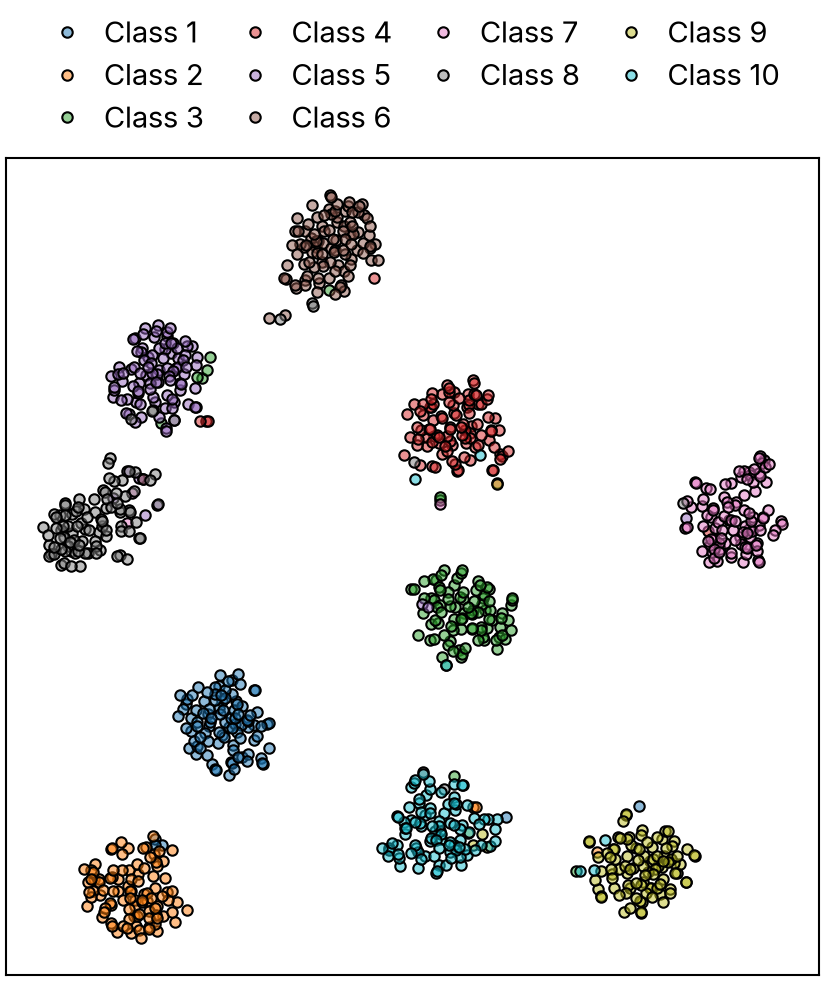
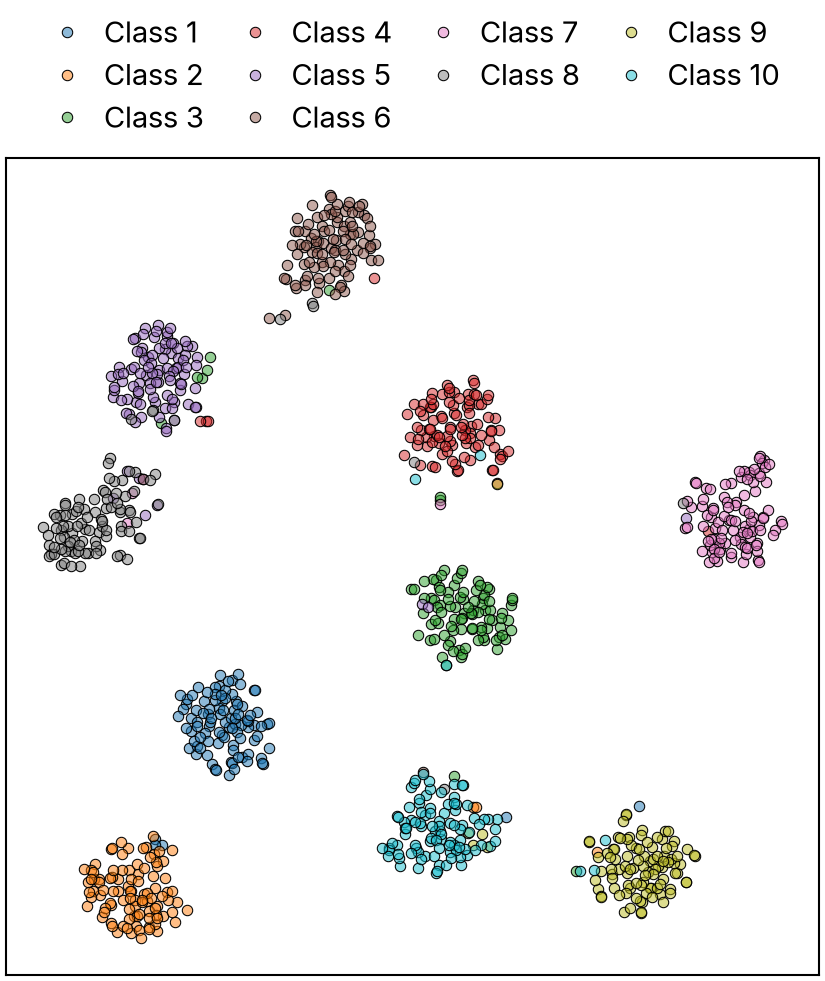
Thinner edge for filled markers (token); full viridis for contour lines

diff --git a/skills/academic-figure/assets/paper.py b/skills/academic-figure/assets/paper.py
@@ -27,6 +27,7 @@ def _size(a, original=False):
 
 dashed_width = 0.75  # the dashed-line token, set by use_design(); pass it to dashed and dotted lines
 highlight_size = 5  # the marker highlight-size token, set by use_design(); for a point of interest
+filled_edge_width = 0.25  # the marker filled-edge-width token, set by use_design(); for filled markers
 
 
 def _resolve(value, tokens):
@@ -49,7 +50,7 @@ def _number(value):
 def use_design(path="DESIGN.md"):
     """Set matplotlib's style from paper.mplstyle and the tokens in the front matter of `path`, a DESIGN.md.
     Returns the colors by name, e.g. colors["series-1"], colors["ours"]."""
-    global dashed_width, highlight_size, _greys
+    global dashed_width, highlight_size, filled_edge_width, _greys
     tokens = yaml.safe_load(Path(path).read_text().split("---")[1])
     tokens = _resolve(tokens, tokens)
     c, t, s, k = tokens["colors"], tokens["typography"], tokens["spacing"], tokens["components"]
@@ -88,6 +89,7 @@ def use_design(path="DESIGN.md"):
     })
     dashed_width = _number(k["dashed-line"]["width"])
     highlight_size = _number(k["marker"]["highlight-size"])
+    filled_edge_width = _number(k["marker"]["filled-edge-width"])
     return c
 
 

diff --git a/examples/use-cases/scripts/loss-landscape.py b/examples/use-cases/scripts/loss-landscape.py
@@ -7,7 +7,7 @@ import warnings
 import matplotlib.pyplot as plt
 import numpy as np
 from matplotlib import rcParams
-from matplotlib.colors import ListedColormap, Normalize
+from matplotlib.colors import Normalize
 
 sys.path.insert(0, "../../../skills/academic-figure/assets")
 import paper  # registers the bundled Inter font
@@ -19,7 +19,7 @@ with open("../data/loss-landscape.json") as f:
     data = json.load(f)
 levels = data["levels"]
 
-cmap = ListedColormap(plt.get_cmap("viridis")(np.linspace(0, 0.85, 256)))
+cmap = plt.get_cmap("viridis")
 norm = Normalize(min(levels), max(levels))
 
 fig, ax = plt.subplots(figsize=(2.75, 2))

diff --git a/examples/use-cases/scripts/t-sne.py b/examples/use-cases/scripts/t-sne.py
@@ -17,7 +17,7 @@ data = json.load(open("../data/t-sne.json"))
 fig, ax = plt.subplots(figsize=(2.75, 2.75))
 for i, color in enumerate(plt.get_cmap("tab10").colors, start=1):
     points = data[f"class_{i}"]
-    ax.plot(points["x"], points["y"], "o", markeredgecolor=colors["ink"], markerfacecolor=(*to_rgb(color), 0.5),
+    ax.plot(points["x"], points["y"], "o", markeredgecolor=colors["ink"], markeredgewidth=paper.filled_edge_width, markerfacecolor=(*to_rgb(color), 0.5),
             linestyle="none", label=f"Class {i}")
 ax.set_xticks([])
 ax.set_yticks([])

diff --git a/skills/academic-figure/scatter-plot.md b/skills/academic-figure/scatter-plot.md
@@ -13,7 +13,7 @@ Two quantities per item plotted against each other: accuracy against parameters,
 - **Trend line** (the takeaway is a correlation): a data line in `darken(color)` over the points; the coefficient (Pearson r or Spearman ρ, with n) in the caption.
 - **Model family** (sizes of one model, B0–B7): its points joined in size order with a solid data line in the family's color, `ax.plot(x, y, "o-", color=colors["ours"])` for ours.
 - **Pareto front**: the models on the front joined in x order with a dashed `neutral` line under the markers, `ax.plot(x, y, linestyle="--", linewidth=paper.dashed_width, color=colors["neutral"], zorder=1)`; several fronts take the grey line styles in order (DESIGN.md Colors). Dominated models stay as markers.
-- **Embedding** (t-SNE, UMAP): each point as the design's marker with a black edge and a translucent fill in its class color, `ax.plot(x, y, "o", markeredgecolor=colors["ink"], markerfacecolor=(*to_rgb(color), 0.5), linestyle="none", label=name)`; one color per class (DESIGN.md Colors) with a legend; no ticks, tick labels, gridlines or axis labels (`ax.set_xticks([])`, `ax.set_yticks([])`, `ax.grid(False)`): the axes of an embedding mean nothing.
+- **Embedding** (t-SNE, UMAP): each point as the design's marker with a black edge and a translucent fill in its class color, `ax.plot(x, y, "o", markeredgecolor=colors["ink"], markeredgewidth=paper.filled_edge_width, markerfacecolor=(*to_rgb(color), 0.5), linestyle="none", label=name)`; one color per class (DESIGN.md Colors) with a legend; no ticks, tick labels, gridlines or axis labels (`ax.set_xticks([])`, `ax.set_yticks([])`, `ax.grid(False)`): the axes of an embedding mean nothing.
 
 ## Labels
 

diff --git a/skills/academic-figure/assets/DESIGN.md b/skills/academic-figure/assets/DESIGN.md
@@ -57,6 +57,7 @@ components:
     size: 2.5pt
     edge-width: 0.5pt
     highlight-size: 5pt
+    filled-edge-width: 0.25pt
   outline:
     width: 0.75pt
   median:
@@ -229,6 +230,7 @@ The marks every chart type is built from, sized by the `components` tokens. Matp
 | Data lines | `line` | 1 pt, solid | set by the style |
 | Dashed and dotted lines (reference lines, value marks, fits, fronts, series told apart by line style) | `dashed-line` | 0.75 pt | `linewidth=paper.dashed_width` with every `linestyle` other than `"-"` |
 | Markers | `marker` | hollow: white fill, a 0.5 pt edge in the series color, 2.5 pt | `rcParams["lines.markersize"]` |
+| Filled markers (embedding points) | `marker.filled-edge-width` | a black edge, 0.25 pt, around a translucent fill | `markeredgewidth=paper.filled_edge_width` |
 | Points of interest (a minimum, the trained solution) | `marker.highlight-size` | a filled star, 5 pt | `markersize=paper.highlight_size` |
 | Outlines and edges (boxes, whiskers, error bars, outlined cells) | `outline` | 0.75 pt, black | `rcParams["patch.linewidth"]` |
 | Seams between fills (stacked segments, wedges, area bands) | `grid` | white, 0.5 pt | `edgecolor="white", linewidth=rcParams["grid.linewidth"]` |

diff --git a/skills/academic-figure/contour-plot.md b/skills/academic-figure/contour-plot.md
@@ -11,7 +11,7 @@ A function of two continuous variables: a loss landscape, a decision boundary, a
 
 ## Variants
 
-- **Contour lines only** (as many papers draw them): `lines = ax.contour(X, Y, Z, levels=levels, cmap=cmap)`, colored by level from the design's colormap without its lightest end, so no line vanishes on white, `cmap = ListedColormap(plt.get_cmap("viridis")(np.linspace(0, 0.85, 256)))`; a colorbar for the line colors, `fig.colorbar(plt.cm.ScalarMappable(norm=Normalize(lo, hi), cmap=cmap), ax=ax, label=...)`.
+- **Contour lines only** (as many papers draw them): `lines = ax.contour(X, Y, Z, levels=levels, cmap=cmap)`, colored by level from the design's whole colormap, `cmap = plt.get_cmap("viridis")`, the same scale as everywhere else; a colorbar for the line colors, `fig.colorbar(plt.cm.ScalarMappable(norm=Normalize(lo, hi), cmap=cmap), ax=ax, label=...)`.
 - **Lines given as polylines** (each with its level, not a grid): each drawn with `ax.plot(x, y, color=cmap(norm(level)), linewidth=rcParams["contour.linewidth"])`.
 - **Loss landscape**: axes "Direction 1" and "Direction 2", the trained solution at (0, 0).
 

diff --git a/skills/academic-figure/SKILL.md b/skills/academic-figure/SKILL.md
@@ -51,7 +51,7 @@ figures/
   import matplotlib.pyplot as plt
   import numpy as np
   from matplotlib import rcParams
-  from matplotlib.colors import ListedColormap, Normalize, to_rgb
+  from matplotlib.colors import Normalize, to_rgb
   from matplotlib.patches import Patch
   from matplotlib.ticker import NullFormatter
 
